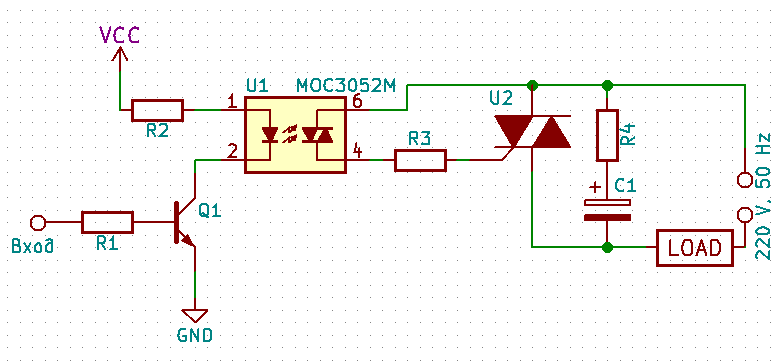
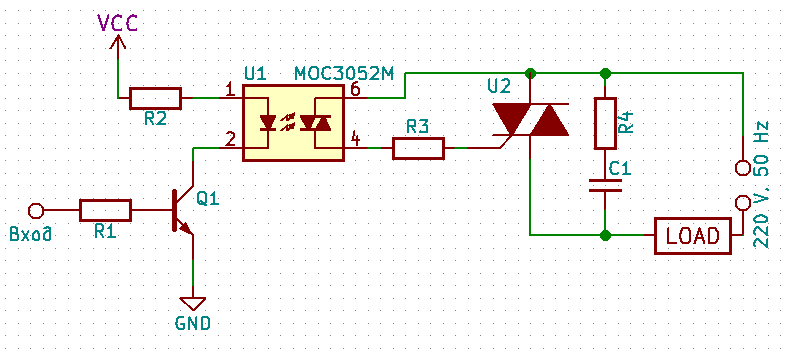
Important fixes

Changed region(s): [[0.0, 0.0312, 1.0, 0.75], [0.2148, 0.6875, 0.2762, 0.9375]]

diff --git a/_posts/2017-01-06-power-control.md b/_posts/2017-01-06-power-control.md
@@ -522,9 +522,11 @@ MOC3023M или MOC3052.
 Снаббер не сильно улучшает ситуацию с выбросами, но с ним лучше, чем
 без него.
 
-Электролитический конденсатор дожен быть рассчитан на напряжение,
+Керамический конденсатор дожен быть рассчитан на напряжение,
 большее пикового в сети питания. Ещё раз вспомним, что для 220 В — это
 310 В. Лучше брать с запасом.
+
+Типичные значения: $C_1 = 0{,}01\,мкФ$, $R_4 = 33\,Ом$.
 
 Есть также модели симисторов, которым не требуется снаббер. Например,
 BTA06-600C.
